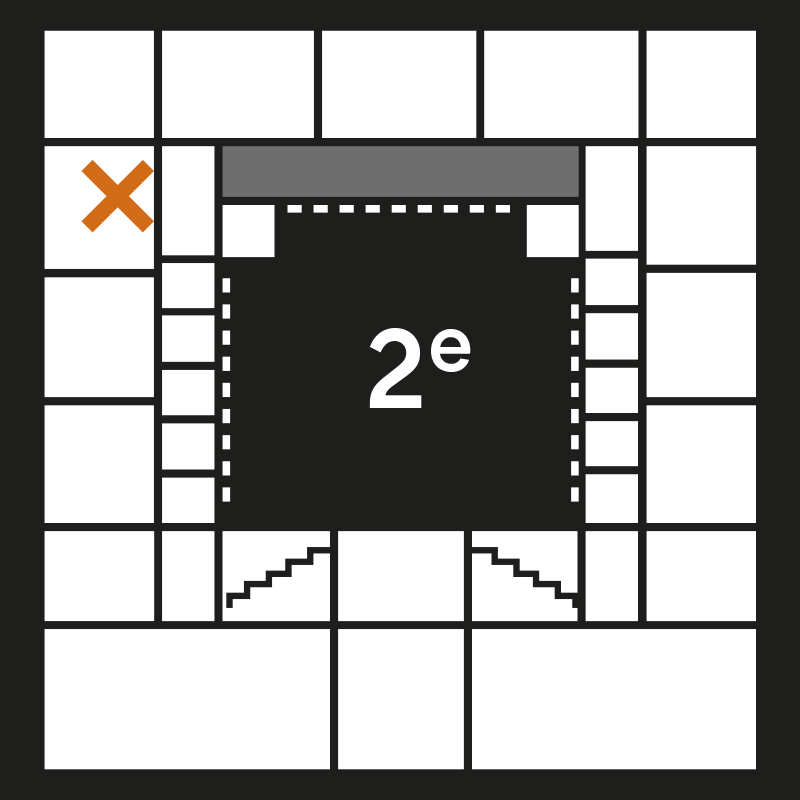
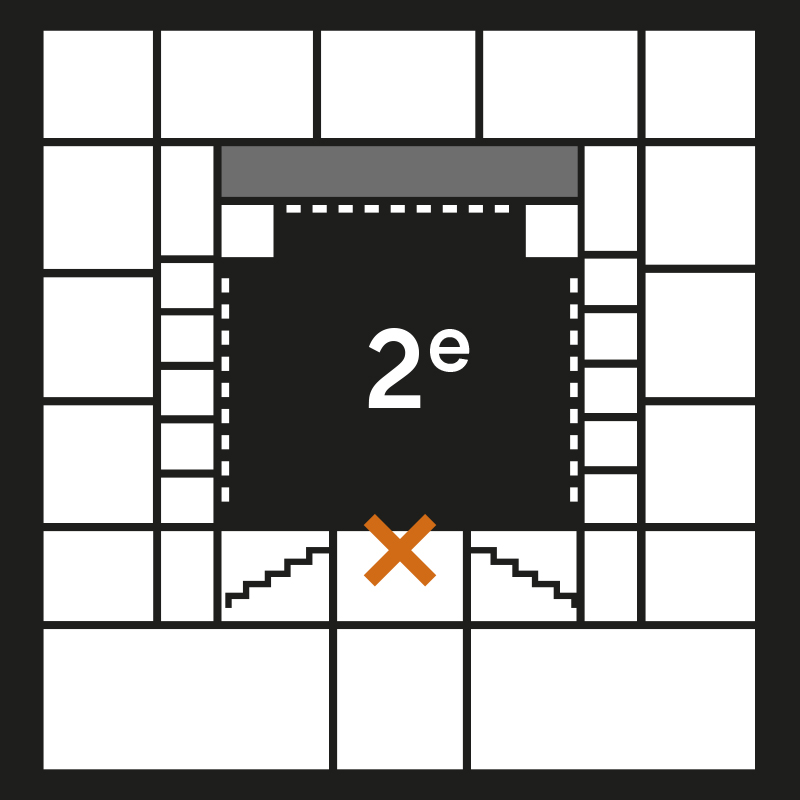
fix map 10

diff --git a/tissuSubjectif/platforms/ios/www/js/app.js b/tissuSubjectif/platforms/ios/www/js/app.js
@@ -91,7 +91,7 @@ function populateSearchCold(){
     // TODO change map
     $('#id-screen-locating .status').html("froid").removeClass('warm').addClass('cold');
 
-    var image = "img/MX_Maps-" + this.currentId + ".png";
+    var image = "img/MX_Maps-" + currentSearchId + ".png";
 
     $('#id-screen-locating .map').attr('src', image);
 }

diff --git a/tissuSubjectif/www/js/app.js b/tissuSubjectif/www/js/app.js
@@ -91,7 +91,7 @@ function populateSearchCold(){
     // TODO change map
     $('#id-screen-locating .status').html("froid").removeClass('warm').addClass('cold');
 
-    var image = "img/MX_Maps-" + this.currentId + ".png";
+    var image = "img/MX_Maps-" + currentSearchId + ".png";
 
     $('#id-screen-locating .map').attr('src', image);
 }
